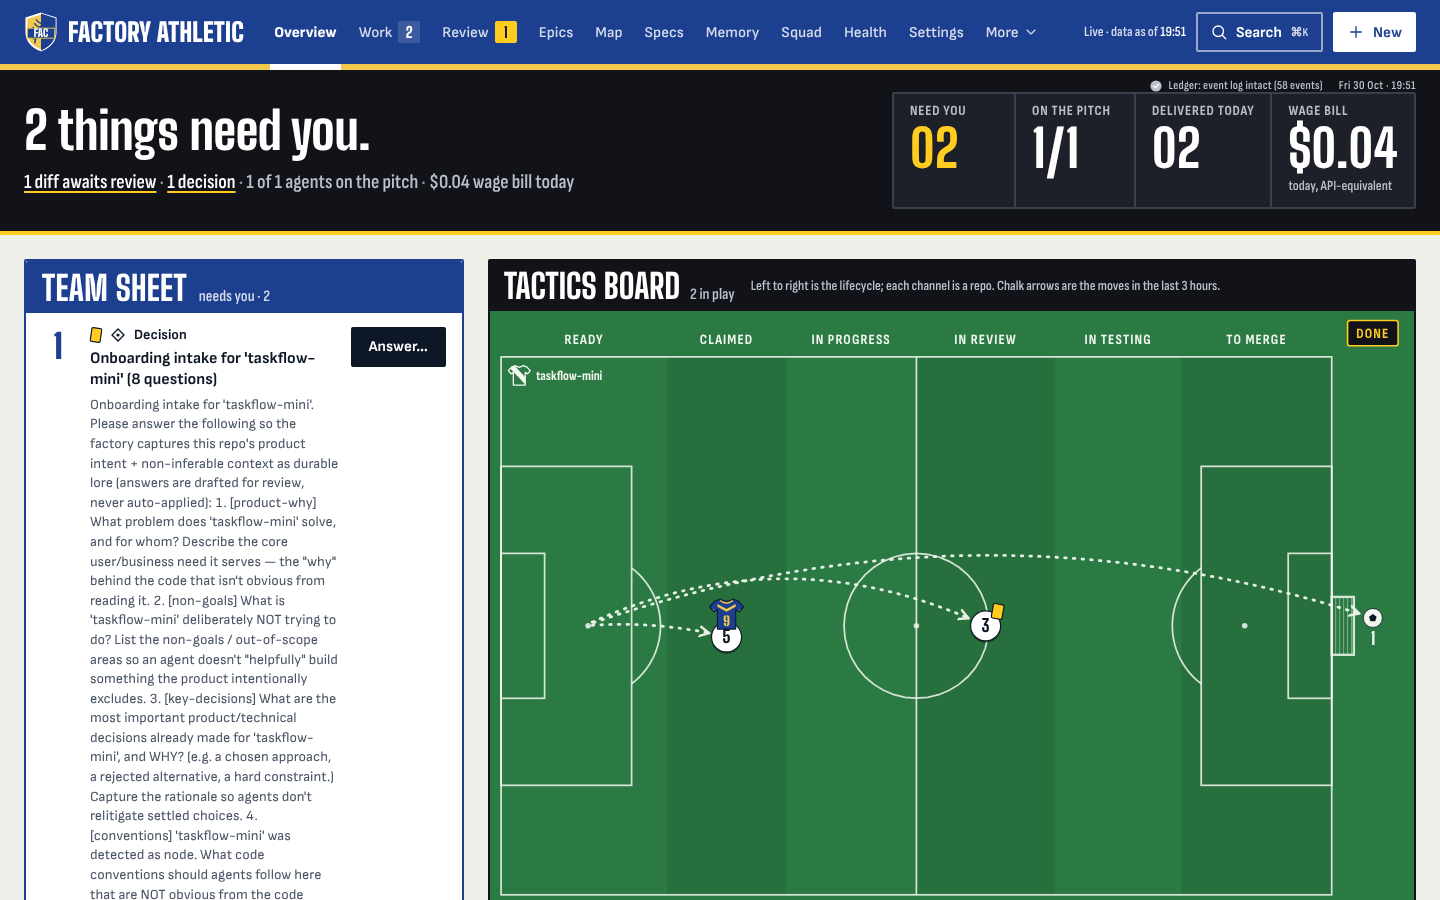
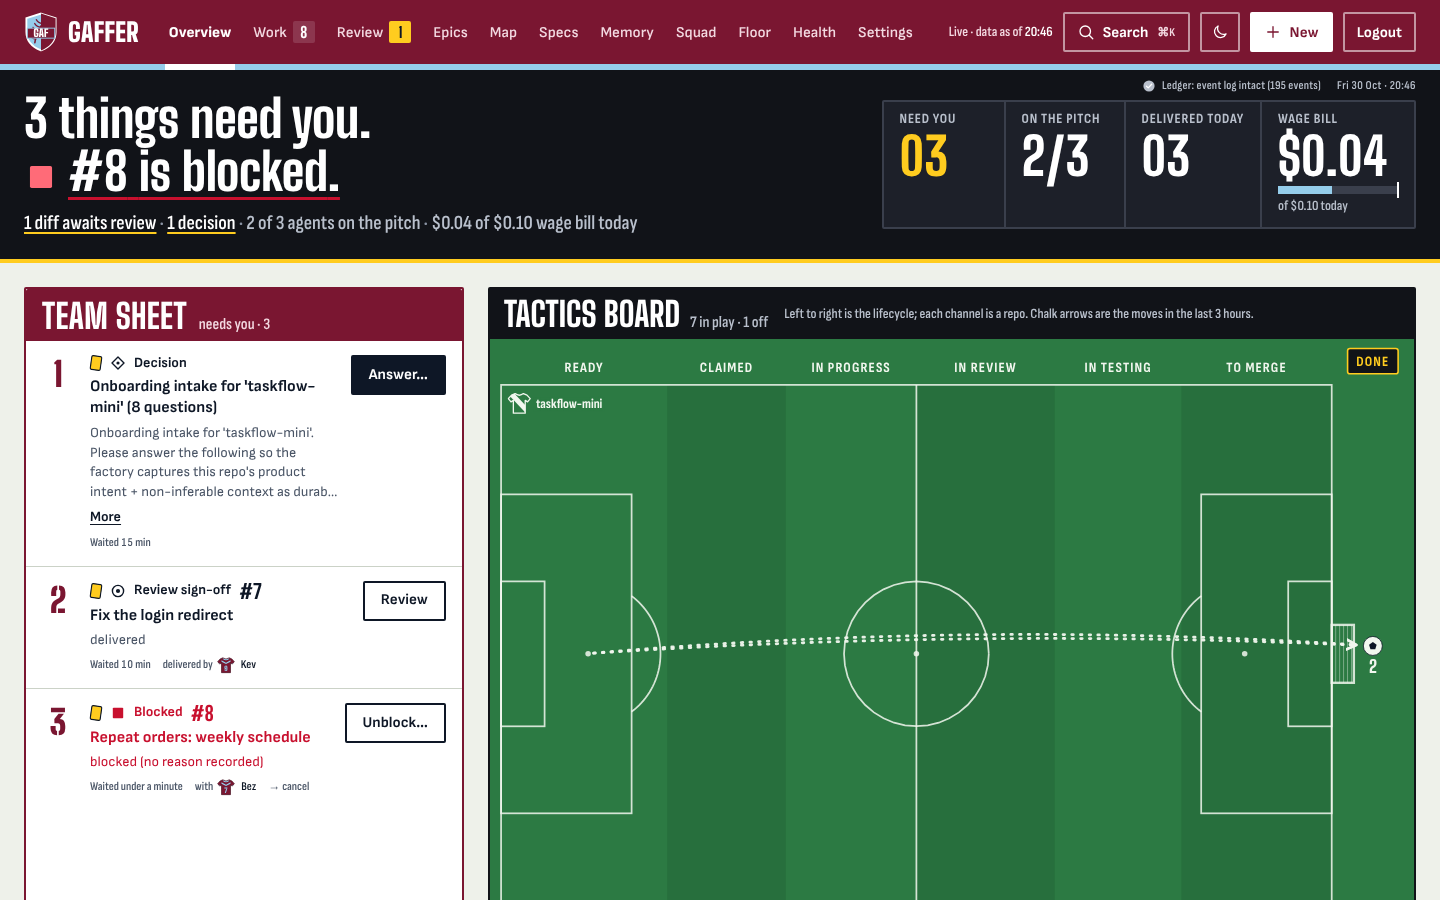
docs(readme): Floor screenshot; overview shot retaken with the level layout
Claude-Session: https://claude.ai/code/session_014MMw347AP2zjZymYruezK1

diff --git a/README.md b/README.md
@@ -115,6 +115,8 @@ You can name the club and the squad. With the full token, click the crest at the
 
 The Floor (after Squad in the nav, or under More) draws the factory as an isometric factory floor, live. A conveyor runs past the stations in lifecycle order: the drawing office (drafts and refining), Stores (ready), Assembly (claimed and in progress), Inspection (in review), the test rig, the loading bay (approved, waiting to merge) and Despatch, where a lorry carries what was done today. Every open ticket is a parcel at its station, and every live claim is a robot wearing its agent's shirt number, the same number and name as on the Tactics Board. Blocked, paused and failed tickets sit in a hazard-taped jam bay whose beacon lights while anything is in it, and a spend tank is filled to today's wage bill against the daily budget. It reads the same data as the Overview and redraws on the live stream. Every parcel, robot and station is a link, a parcel's label reads as a sentence ("#12 Fix the login redirect, in review, delivered by Kev (No. 9)"), and hovering or focusing one shows its number and title. Under the drawing, each station's tickets and who is on the benches are listed as text.
 
+![The Floor: the factory as an isometric floor, every ticket a parcel at its station and every live claim a robot wearing its agent's shirt number](docs/img/match-day-floor.png)
+
 The other screens cover the work board, epics drawn as dependency graphs, the Factory Map of repos and scopes, specs, memory, health (what it cost and where it failed) and settings. [docs/FEATURES.md](docs/FEATURES.md) goes through them.
 
 ## Safety
